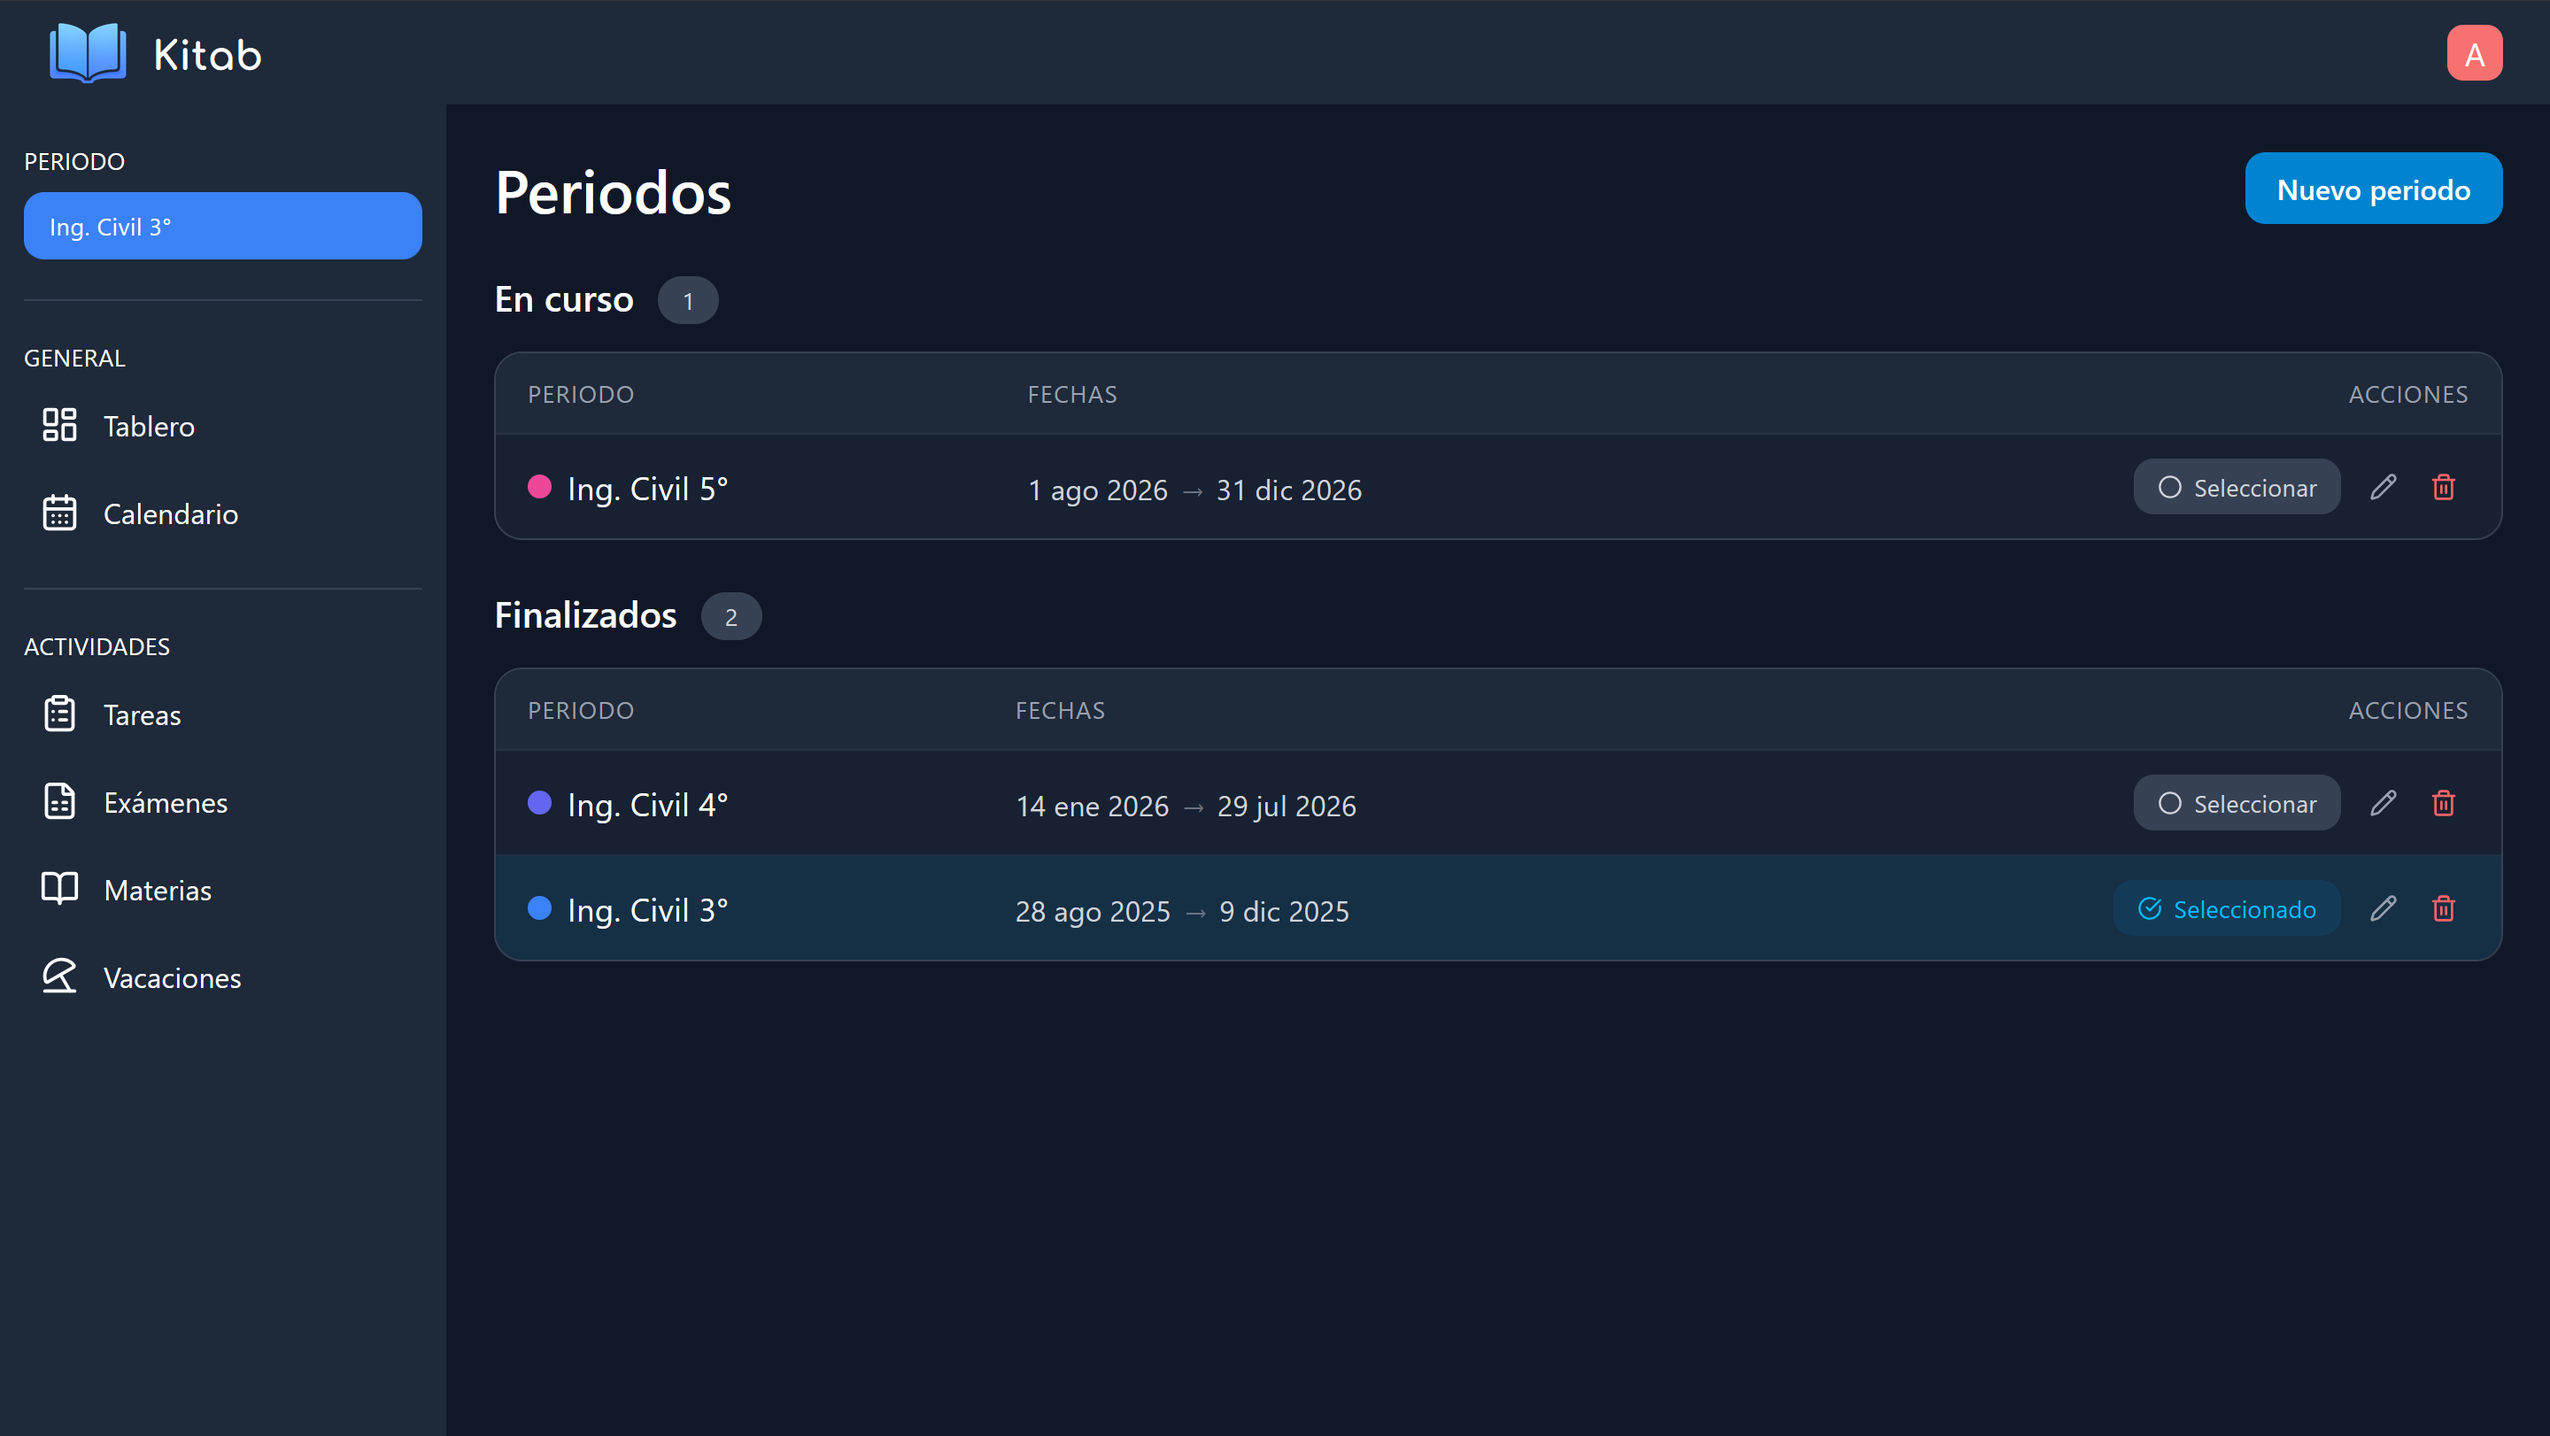
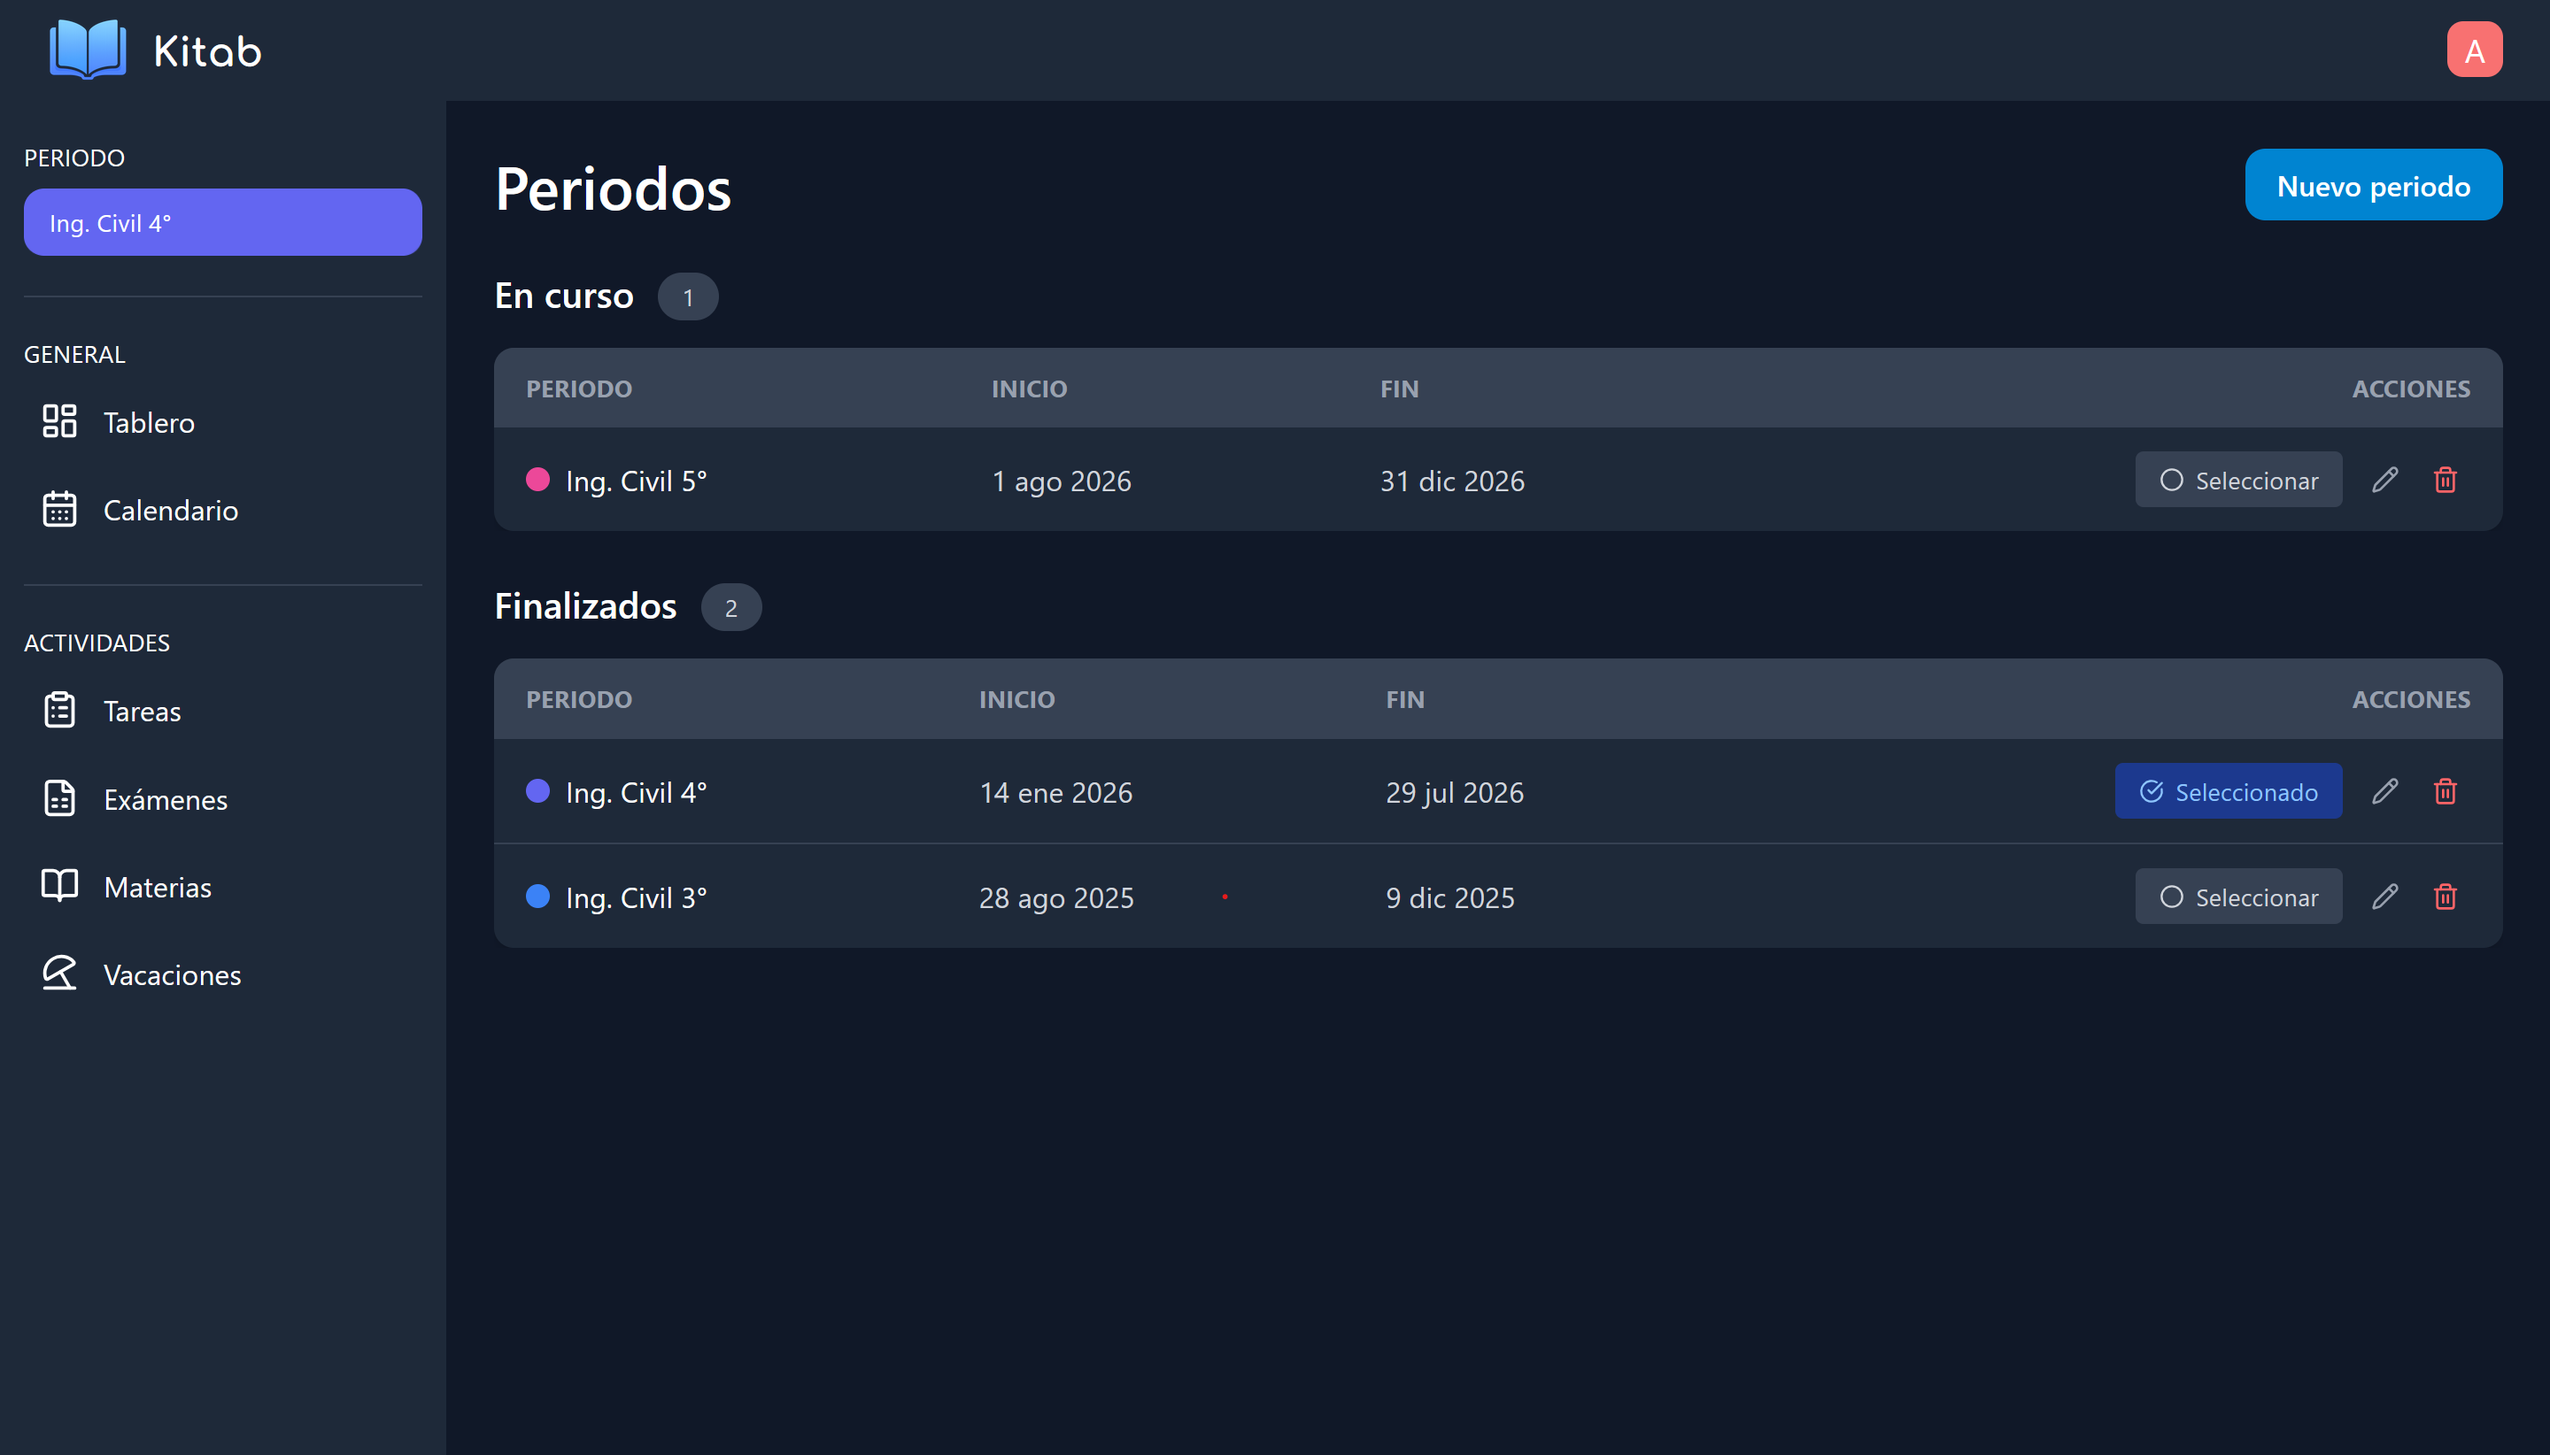
Refine period table and form styling
This update improves the period management UI by splitting the date column into separate start and end date columns, improving readability and layout on smaller screens. It also updates the conflict-loading label from 'Recalculando conflictos...' to 'Calculando conflictos...' and removes redundant focus styling from the subject form action button. The demo period asset was refreshed to match the updated design.

diff --git a/src/pages/Period.jsx b/src/pages/Period.jsx
@@ -214,98 +214,109 @@ function PeriodSection({
       </div>
 
       {/* Table with card-style */}
-      <div className="overflow-hidden rounded-xl border border-gray-700 bg-gray-800/50">
-        <table className="w-full">
-          <thead>
-            <tr className="border-b border-gray-700/50 bg-gray-800">
-              <th className="text-left text-xs font-medium text-gray-400 uppercase tracking-wider px-4 py-3">
-                Periodo
-              </th>
-              <th className="text-left text-xs font-medium text-gray-400 uppercase tracking-wider px-4 py-3">
-                Fechas
-              </th>
-              <th className="text-right text-xs font-medium text-gray-400 uppercase tracking-wider px-4 py-3">
-                Acciones
-              </th>
-            </tr>
-          </thead>
-          <tbody>
-            {periods.map((period, index) => {
-              const isSelected = period.id === selectedPeriod?.id;
-              return (
-                <tr
-                  key={period.id}
-                  className={`
-                    border-b border-gray-700/30 transition-colors
-                    ${index === periods.length - 1 ? "border-b-0" : ""}
-                    ${isSelected ? "bg-sky-500/10" : "hover:bg-gray-700/10"}
-                  `}
-                >
-                  {/* Columna: Nombre + color */}
-                  <td className="px-4 py-3">
-                    <div className="flex items-center gap-2">
-                      <div
-                        className="h-3 w-3 rounded-full shrink-0"
-                        style={{ backgroundColor: period.color }}
-                      />
-                      <span className="font-medium text-white truncate">
-                        {period.name}
+      <div className="overflow-x-auto">
+        <div className="w-full min-w-[540px] overflow-hidden rounded-lg shadow-md">
+          <table className="w-full text-sm text-left text-gray-400 bg-gray-800">
+            <thead className="bg-gray-700 text-xs uppercase text-gray-400">
+              <tr>
+                <th scope="col" className="text-left px-4 py-3">
+                  Periodo
+                </th>
+                <th scope="col" className="text-left px-4 py-3">
+                  Inicio
+                </th>
+                <th scope="col" className="text-left px-4 py-3">
+                  Fin
+                </th>
+                <th  scope="col" className="text-right px-4 py-3">
+                  Acciones
+                </th>
+              </tr>
+            </thead>
+            <tbody>
+              {periods.map((period, index) => {
+                const isSelected = period.id === selectedPeriod?.id;
+                return (
+                  <tr
+                    key={period.id}
+                    className={`
+                      border-b border-gray-700
+                      ${index === periods.length - 1 ? "border-b-0" : ""}
+                    `}
+                  >
+                    {/* Columna: Nombre + color */}
+                    <th 
+                      scope="row" 
+                      className="px-4 py-3 font-medium text-white whitespace-nowrap">
+                        <div className="flex items-center gap-2">
+                          <div
+                            className="h-3 w-3 rounded-full shrink-0"
+                            style={{ backgroundColor: period.color }}
+                          />
+                          <span className="font-medium text-white truncate">
+                            {period.name}
+                          </span>
+                        </div>
+                    </th>
+
+                    {/* Columna: Fechas de inicio */}
+                    <td scope="row" className="px-4 py-3">
+                      <span className="text-sm text-gray-300 whitespace-nowrap">
+                        {formatDate(period.startDate)}
                       </span>
-                    </div>
-                  </td>
+                    </td>
 
-                  {/* Columna: Fechas */}
-                  <td className="px-4 py-3">
-                    <span className="text-sm text-gray-300 whitespace-nowrap">
-                      {formatDate(period.startDate)}
-                      <span className="text-gray-500 mx-1.5">→</span>
-                      {formatDate(period.endDate)}
-                    </span>
-                  </td>
+                    {/* Columna: Fechas de finalización*/}
+                    <td scope="row" className="px-4 py-3">
+                      <span className="text-sm text-gray-300 whitespace-nowrap">
+                        {formatDate(period.endDate)}
+                      </span>
+                    </td>
 
-                  {/* Columna: Acciones */}
-                  <td className="px-4 py-3">
-                    <div className="flex items-center justify-end gap-2">
-                      {/* Estado / Botón seleccionar */}
-                      {isSelected ? (
-                        <span className="inline-flex items-center gap-1.5 text-xs font-medium text-sky-400 bg-sky-500/10 px-3 py-1.5 rounded-lg">
-                          <CheckCircle size={14} />
-                          Seleccionado
-                        </span>
-                      ) : (
-                        <button
-                          onClick={() => onSelect?.(period.id)}
-                          className="inline-flex items-center gap-1.5 text-xs font-medium text-gray-300 hover:text-white bg-gray-700 hover:bg-gray-600 px-3 py-1.5 rounded-lg transition-colors cursor-pointer"
-                        >
-                          <Circle size={14} />
-                          Seleccionar
-                        </button>
-                      )}
+                    {/* Columna: Acciones */}
+                    <td scope="row" className="px-4 py-3">
+                      <div className="flex items-center justify-end gap-2">
+                        {/* Estado / Botón seleccionar */}
+                        {isSelected ? (
+                          <span className="inline-flex items-center gap-1.5 text-xs font-medium bg-blue-900 text-blue-300 px-3 py-1.5 rounded">
+                            <CheckCircle size={14} />
+                            Seleccionado
+                          </span>
+                        ) : (
+                          <button
+                            onClick={() => onSelect?.(period.id)}
+                            className="inline-flex items-center gap-1.5 text-xs font-medium text-gray-300 hover:text-white bg-gray-700 hover:bg-gray-600 px-3 py-1.5 rounded transition-colors cursor-pointer"
+                          >
+                            <Circle size={14} />
+                            Seleccionar
+                          </button>
+                        )}
 
-                      {/* Botones editar/eliminar */}
-                      <div className="flex items-center gap-1">
-                        <button
-                          onClick={() => onEdit?.(period)}
-                          className="p-1.5 rounded-lg text-gray-400 hover:text-white hover:bg-gray-700 transition-colors cursor-pointer"
-                          title="Editar"
-                        >
-                          <Pencil size={16} />
-                        </button>
-                        <button
-                          onClick={() => onDelete?.(period)}
-                          className="p-1.5 rounded-lg text-red-400 hover:bg-red-500/10 transition-colors cursor-pointer"
-                          title="Eliminar"
-                        >
-                          <Trash2 size={16} />
-                        </button>
+                        {/* Botones editar/eliminar */}
+                        <div className="flex items-center gap-1">
+                          <button
+                            onClick={() => onEdit?.(period)}
+                            className="p-1.5 rounded-lg text-gray-400 hover:text-white hover:bg-gray-700 transition-colors cursor-pointer"
+                            title="Editar"
+                          >
+                            <Pencil size={16} />
+                          </button>
+                          <button
+                            onClick={() => onDelete?.(period)}
+                            className="p-1.5 rounded-lg text-red-400 hover:bg-red-500/10 transition-colors cursor-pointer"
+                            title="Eliminar"
+                          >
+                            <Trash2 size={16} />
+                          </button>
+                        </div>
                       </div>
-                    </div>
-                  </td>
-                </tr>
-              );
-            })}
-          </tbody>
-        </table>
+                    </td>
+                  </tr>
+                );
+              })}
+            </tbody>
+          </table>
+        </div>
       </div>
     </div>
   );

diff --git a/src/pages/SubjectsForm.jsx b/src/pages/SubjectsForm.jsx
@@ -1008,9 +1008,6 @@ export default function SubjectsForm() {
                     text-white
                     transition
                     hover:bg-gray-600
-                    focus:outline-none
-                    focus:ring-2
-                    focus:ring-cyan-500
                     cursor-pointer
                   "
                 >

diff --git a/src/components/ClassForm.jsx b/src/components/ClassForm.jsx
@@ -338,7 +338,7 @@ const ClassForm = ({ classData, isEditMode, isNew, conflicts, conflictCount, isR
               "
             >
               <div className="yellow-loader" />
-              Recalculando conflictos...
+              Calculando conflictos...
             </div>
           </div>
         ) : (
